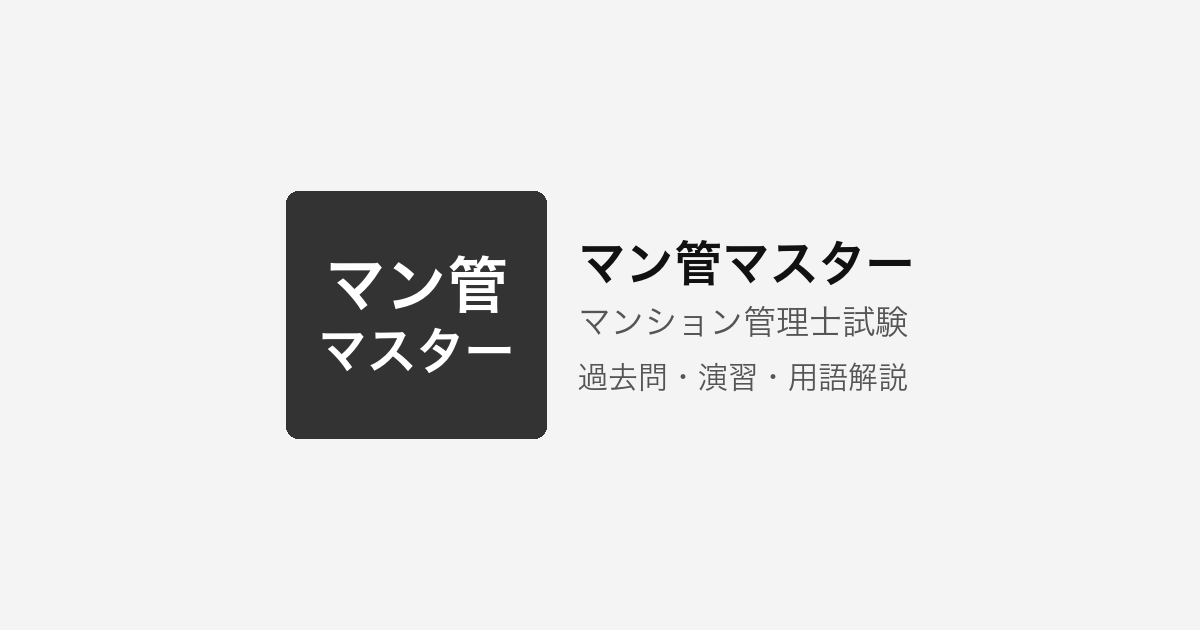
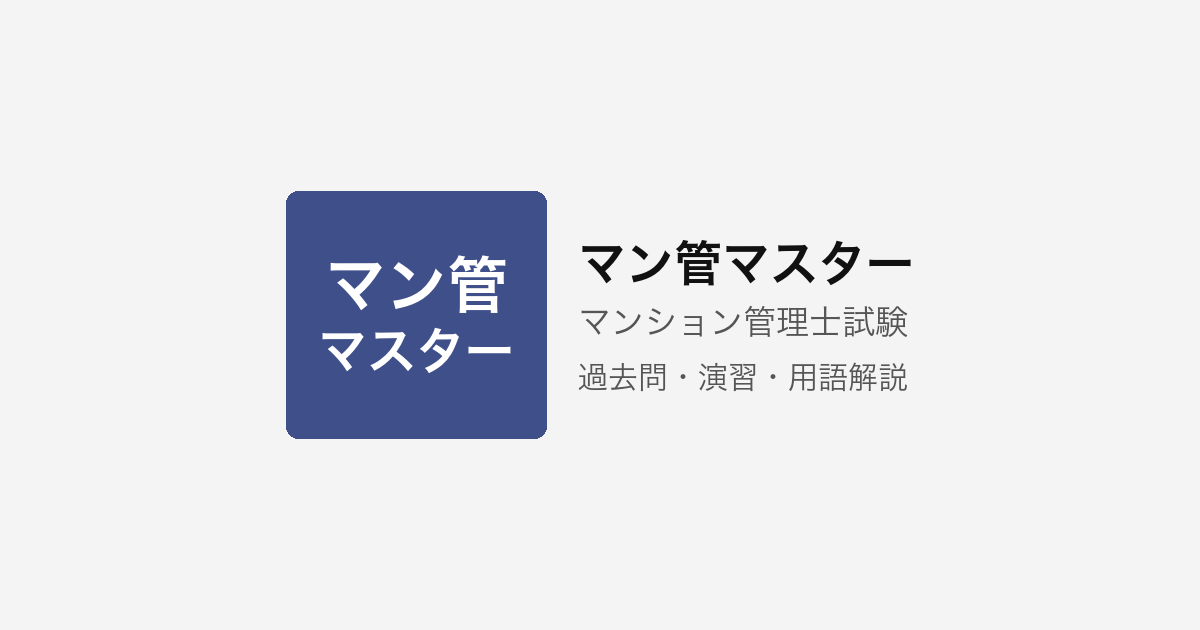
feat: ブランドごとに theme.accent を差別化（ファビコン・OGP再生成）

Changed region(s): [[0.2158, 0.3016, 0.4625, 0.7238]]

diff --git a/index.html b/index.html
@@ -1342,10 +1342,10 @@ body.is-solving .site-footer{display:none!important}
   <nav class="topnav">
     <div class="topnav-inner">
       <a class="topnav-logo" href="/" onclick="event.preventDefault();gotoPage('quiz-start')" aria-label="宅建マスター、宅地建物取引士試験対策のトップへ">
-        <div class="topnav-logo-mark" aria-hidden="true"><span class="logo-mark-line">宅建</span><span class="logo-mark-line logo-mark-line--sub">マスター</span></div>
+        <div class="topnav-logo-mark" aria-hidden="true"><span class="logo-mark-line">マン管</span><span class="logo-mark-line logo-mark-line--sub">マスター</span></div>
         <span class="topnav-logo-stack">
-          <span class="topnav-logo-text">宅建マスター</span>
-          <span class="topnav-logo-sub">宅地建物取引士試験</span>
+          <span class="topnav-logo-text">マン管マスター</span>
+          <span class="topnav-logo-sub">マンション管理士試験</span>
         </span></a>
       <nav class="topnav-links" aria-label="メインナビゲーション">
         <a class="topnav-link" id="tnav-ichimondou" href="/#ichimondou" onclick="event.preventDefault();startIchimondou()">
@@ -1817,8 +1817,8 @@ body.is-solving .site-footer{display:none!important}
   <footer class="site-footer" role="contentinfo">
       <div class="site-footer-scroll">
         <div class="site-footer-inner">
-          <a class="site-footer-brand" href="index.html" title="宅建マスター（宅地建物取引士試験対策）トップへ">
-            <div class="topnav-logo-mark" aria-hidden="true"><span class="logo-mark-line">宅建</span><span class="logo-mark-line logo-mark-line--sub">マスター</span></div>
+          <a class="site-footer-brand" href="index.html" title="マン管マスター（マンション管理士試験対策）トップへ">
+            <div class="topnav-logo-mark" aria-hidden="true"><span class="logo-mark-line">マン管</span><span class="logo-mark-line logo-mark-line--sub">マスター</span></div>
           </a>
           <span class="site-footer-sep" aria-hidden="true"></span>
           <nav class="site-footer-legal" aria-label="サイト情報・ポリシー">
@@ -1829,10 +1829,10 @@ body.is-solving .site-footer{display:none!important}
             <a href="articles/index.html">試験ガイド</a>
             <a href="related-sites.html">関連リンク</a>
             <a href="privacy.html">プライバシー</a>
-            <a href="https://forms.gle/Rfovea3QJhVo24NYA" target="_blank" rel="noopener noreferrer">お問い合わせ</a>
+            <a href="https://forms.gle/XazAUQxqgngAdnwb7" target="_blank" rel="noopener noreferrer">お問い合わせ</a>
           </nav>
           <span class="site-footer-sep" aria-hidden="true"></span>
-          <span class="site-footer-copy">© 2026 宅建マスター学習支援・takken-master.jp</span>
+          <span class="site-footer-copy">© 2026 マン管マスター学習支援・mankan-master.jp</span>
         </div>
       </div>
     </footer>

diff --git a/site-theme.css b/site-theme.css
@@ -1,14 +1,14 @@
 :root {
-  --sel: #333333;
-  --accent: #333333;
+  --sel: #3f4f8a;
+  --accent: #3f4f8a;
   --accent-text: #ffffff;
-  --accent-soft: color-mix(in srgb, #333333 11%, #ffffff);
-  --accent-soft-mid: color-mix(in srgb, #333333 18%, #ffffff);
-  --accent-border: color-mix(in srgb, #333333 26%, #ffffff);
-  --accent-emphasis: color-mix(in srgb, #333333 42%, #333333);
-  --accent-hover-surface: color-mix(in srgb, #333333 7%, #ffffff);
-  --accent-hover-border: color-mix(in srgb, #333333 30%, #e4e4e6);
-  --accent-shadow: color-mix(in srgb, #333333 12%, transparent);
+  --accent-soft: color-mix(in srgb, #3f4f8a 11%, #ffffff);
+  --accent-soft-mid: color-mix(in srgb, #3f4f8a 18%, #ffffff);
+  --accent-border: color-mix(in srgb, #3f4f8a 26%, #ffffff);
+  --accent-emphasis: color-mix(in srgb, #3f4f8a 42%, #333333);
+  --accent-hover-surface: color-mix(in srgb, #3f4f8a 7%, #ffffff);
+  --accent-hover-border: color-mix(in srgb, #3f4f8a 30%, #e4e4e6);
+  --accent-shadow: color-mix(in srgb, #3f4f8a 12%, transparent);
   --bg: #ffffff;
   --bg2: #f4f4f5;
   --page-bg: #f4f4f5;

diff --git a/articles/index.html b/articles/index.html
@@ -8,7 +8,7 @@
 <link rel="icon" type="image/png" sizes="32x32" href="../assets/brand/favicon-32.png">
 <link rel="icon" type="image/png" sizes="16x16" href="../assets/brand/favicon-16.png">
 <link rel="apple-touch-icon" sizes="180x180" href="../assets/brand/apple-touch-icon.png">
-<meta name="theme-color" content="#333333">
+<meta name="theme-color" content="#3f4f8a">
 <meta property="og:image" content="https://mankan-master.jp/assets/brand/og-image.png">
 <meta property="og:image:secure_url" content="https://mankan-master.jp/assets/brand/og-image.png">
 <meta property="og:image:width" content="1200">

diff --git a/about.html b/about.html
@@ -8,7 +8,7 @@
 <link rel="icon" type="image/png" sizes="32x32" href="assets/brand/favicon-32.png">
 <link rel="icon" type="image/png" sizes="16x16" href="assets/brand/favicon-16.png">
 <link rel="apple-touch-icon" sizes="180x180" href="assets/brand/apple-touch-icon.png">
-<meta name="theme-color" content="#333333">
+<meta name="theme-color" content="#3f4f8a">
 <meta property="og:image" content="https://mankan-master.jp/assets/brand/og-image.png">
 <meta property="og:image:secure_url" content="https://mankan-master.jp/assets/brand/og-image.png">
 <meta property="og:image:width" content="1200">

diff --git a/privacy.html b/privacy.html
@@ -8,7 +8,7 @@
 <link rel="icon" type="image/png" sizes="32x32" href="assets/brand/favicon-32.png">
 <link rel="icon" type="image/png" sizes="16x16" href="assets/brand/favicon-16.png">
 <link rel="apple-touch-icon" sizes="180x180" href="assets/brand/apple-touch-icon.png">
-<meta name="theme-color" content="#333333">
+<meta name="theme-color" content="#3f4f8a">
 <meta property="og:image" content="https://mankan-master.jp/assets/brand/og-image.png">
 <meta property="og:image:secure_url" content="https://mankan-master.jp/assets/brand/og-image.png">
 <meta property="og:image:width" content="1200">

diff --git a/related-sites.html b/related-sites.html
@@ -8,7 +8,7 @@
 <link rel="icon" type="image/png" sizes="32x32" href="assets/brand/favicon-32.png">
 <link rel="icon" type="image/png" sizes="16x16" href="assets/brand/favicon-16.png">
 <link rel="apple-touch-icon" sizes="180x180" href="assets/brand/apple-touch-icon.png">
-<meta name="theme-color" content="#333333">
+<meta name="theme-color" content="#3f4f8a">
 <meta property="og:image" content="https://mankan-master.jp/assets/brand/og-image.png">
 <meta property="og:image:secure_url" content="https://mankan-master.jp/assets/brand/og-image.png">
 <meta property="og:image:width" content="1200">
